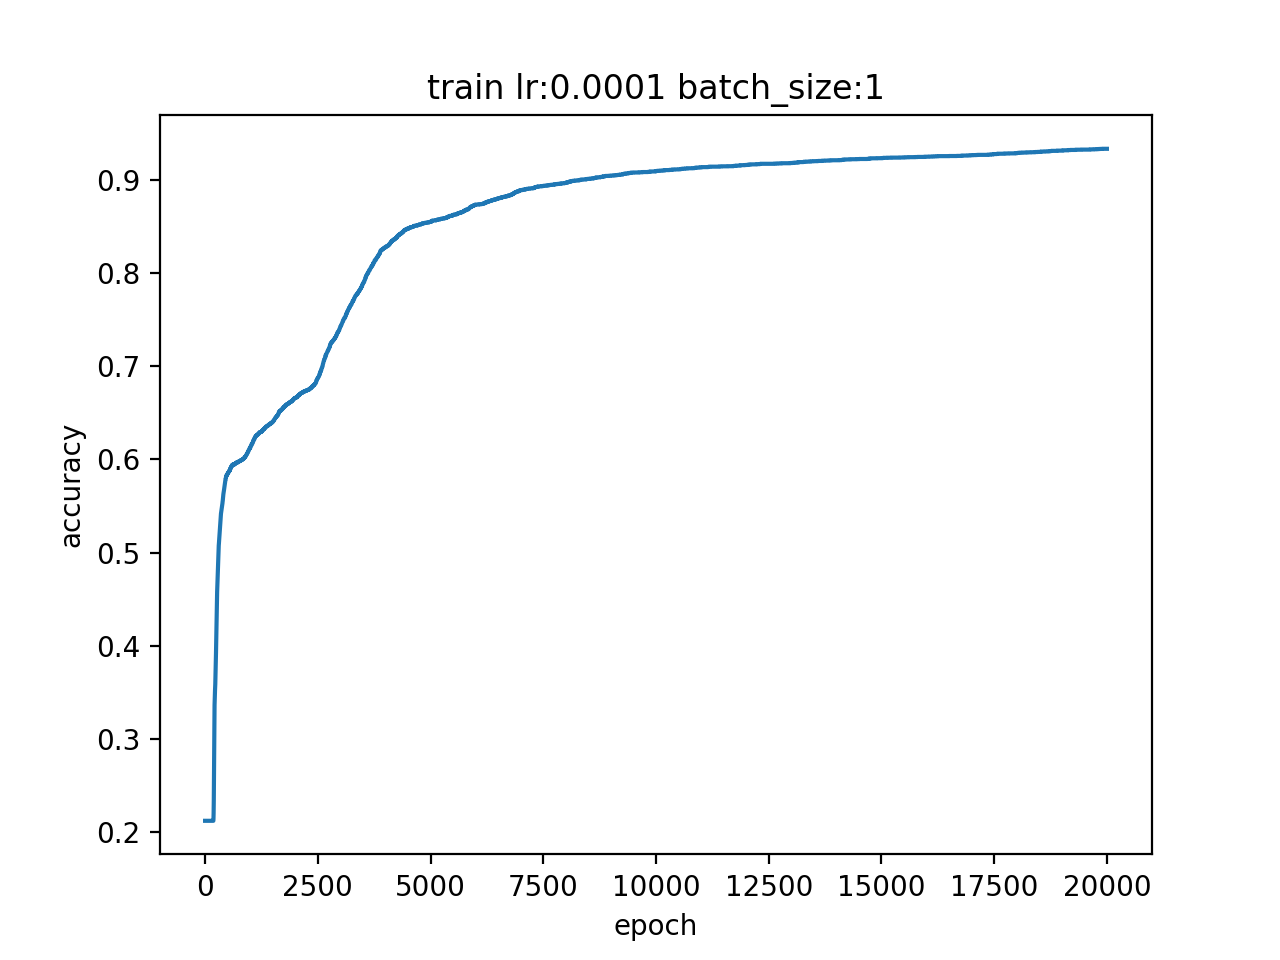
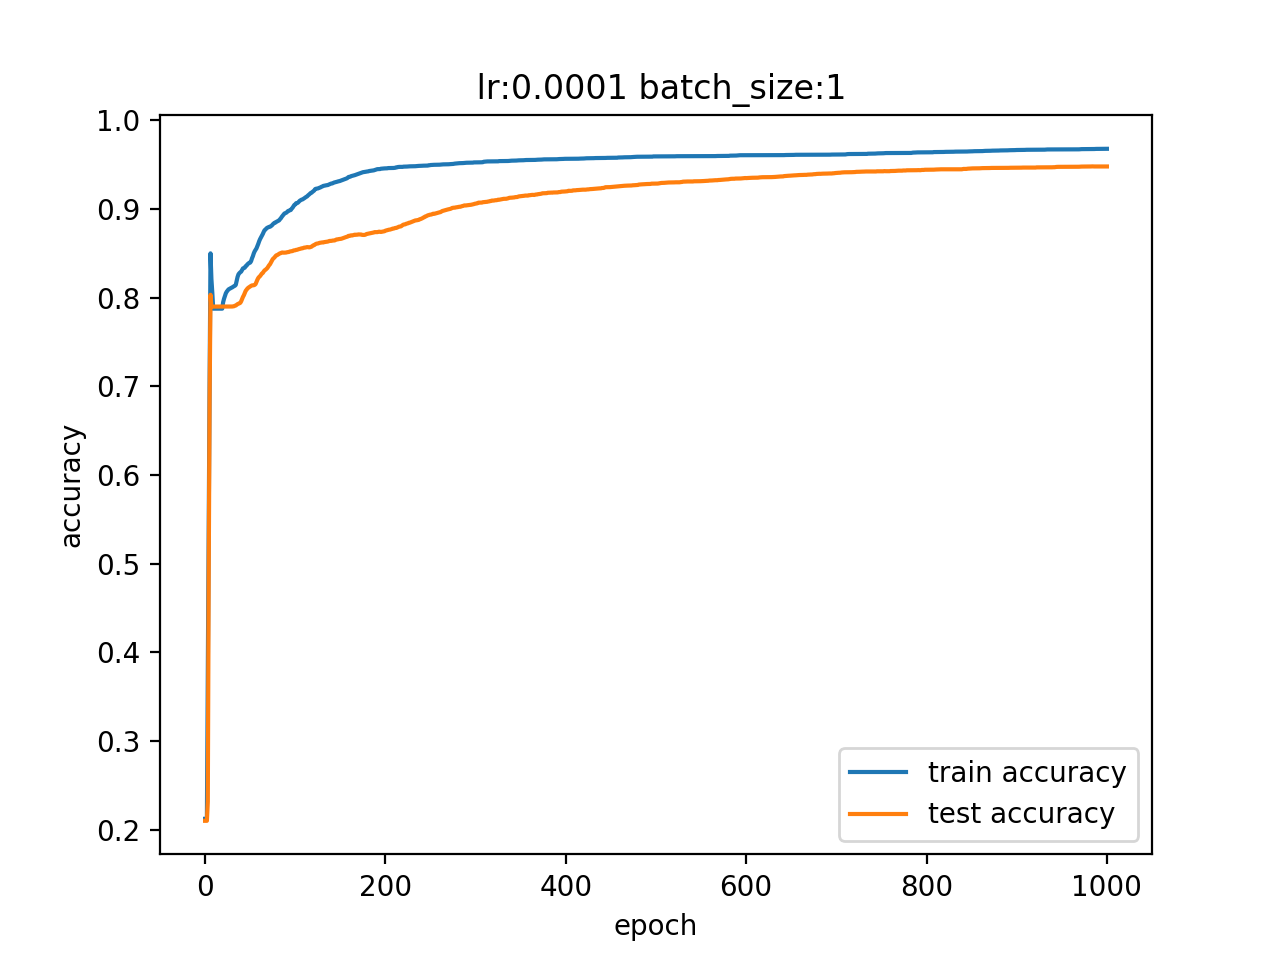
Fix assign2 part1 bug - looks running good now

diff --git a/assignment2-BoCao/src/python/part1.py b/assignment2-BoCao/src/python/part1.py
@@ -114,12 +114,12 @@ print "n_data:", n_data
 
 
 def initialize_weights():
-    w_t = random.random()
-    w_hu = random.random()
-    w_lt = random.random()
-    w_co2 = random.random()
-    w_hu_r = random.random()
-    b = random.random()
+    w_t = random.random() * 2
+    w_hu = random.random() * 2
+    w_lt = random.random() * 2
+    w_co2 = random.random() * 2
+    w_hu_r = random.random() * 2
+    b = random.random() * 2
 
     #weights
     ws = [w_t, w_hu, w_lt, w_co2, w_hu_r, b]
@@ -168,11 +168,7 @@ def train(n_data, lr, bs):
     n_lt = n_data[:, 2]
     n_co2 = n_data[:, 3]
     n_hu_r = n_data[:, 4]
-<<<<<<< HEAD
-    while epoch <= 9000:
-=======
-    while epoch <= 10000:
->>>>>>> 3a982a0e6dd0ad8c4960f90ce5131816926c1a92
+    while epoch <= 1000:
         # train
         i = 0
         for (n_t_i, n_hu_i, n_lt_i, n_co2_i, n_hu_r_i, o_i) in zip(n_t, n_hu, n_lt, n_co2, n_hu_r, o):
@@ -183,7 +179,8 @@ def train(n_data, lr, bs):
             sum_error_w_hu_r = 0
             sum_error_b = 0
 
-            error = o_i - (n_t_i * ws[0] + n_hu_i * ws[1] + n_lt_i * ws[2] + n_co2_i * ws[3] + n_hu_r_i * ws[4] + ws[5])
+            #error = o_i - (n_t_i * ws[0] + n_hu_i * ws[1] + n_lt_i * ws[2] + n_co2_i * ws[3] + n_hu_r_i * ws[4] + ws[5])
+            error = o_i - sigmoid(n_t_i * ws[0] + n_hu_i * ws[1] + n_lt_i * ws[2] + n_co2_i * ws[3] + n_hu_r_i * ws[4] + ws[5])
             sum_error_w_t += error * n_t_i
             sum_error_w_hu += error * n_hu_i
             sum_error_w_lt += error * n_lt_i
@@ -212,7 +209,7 @@ def train(n_data, lr, bs):
             train_accuracies.append(train_accuracy)
             test_accuracy = test(n_test_data, ws, o_test)
             test_accuracies.append(test_accuracy)
-            if epoch % 50 == 0:
+            if epoch % 10 == 0:
                 print "   "
                 print "epoch:", epoch
                 print "train accuracy:\t", train_accuracy
@@ -295,4 +292,4 @@ def plot_accuracy(train_accuracies, test_accuracies, lr, bs):
 # In[48]:
 
 
-train(n_data, lr = 0.01, bs = 1)
+train(n_data, lr = 0.0001, bs = 1)
